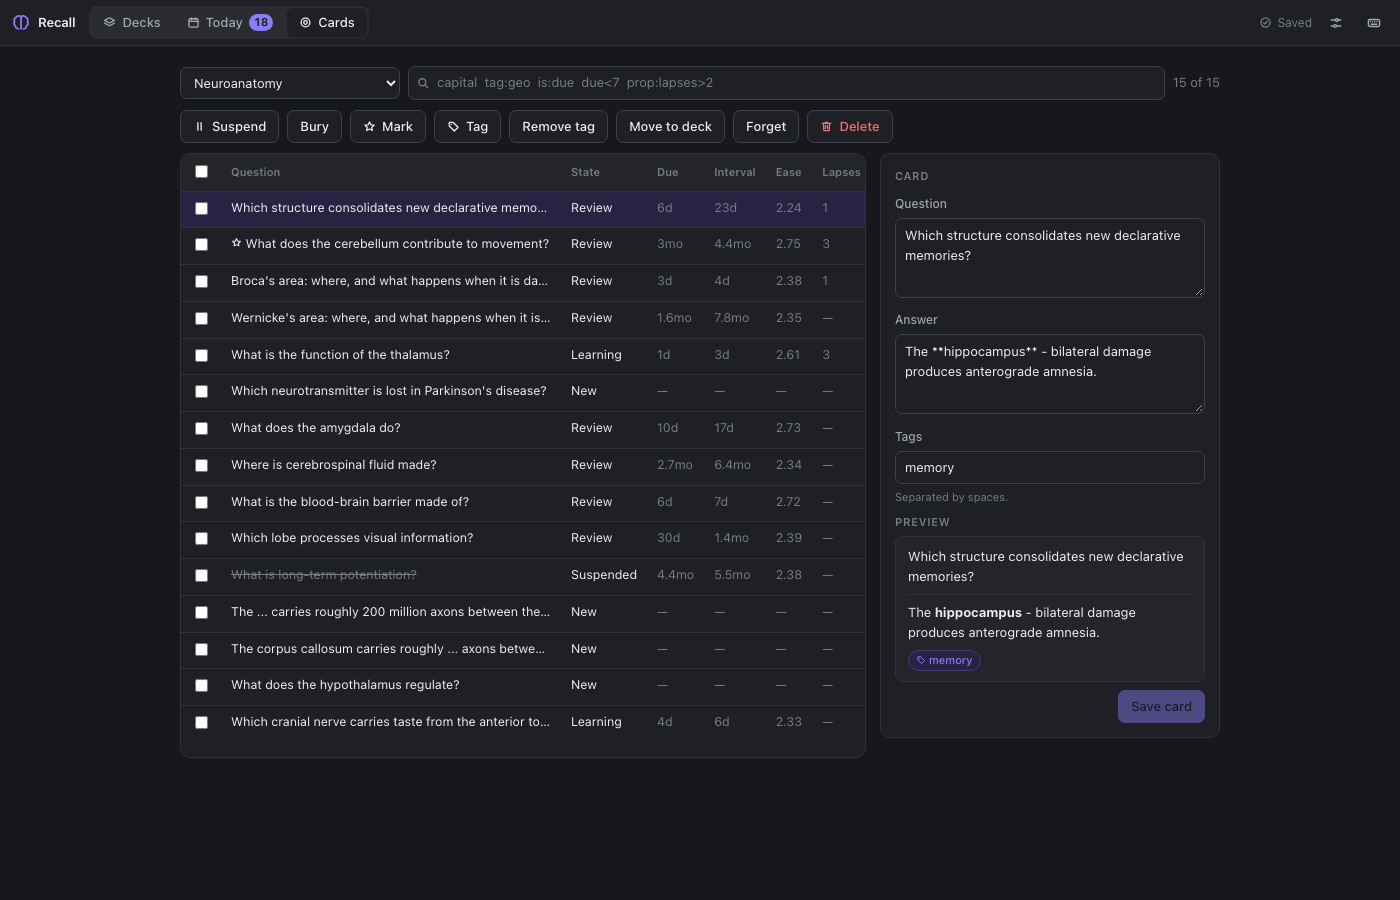
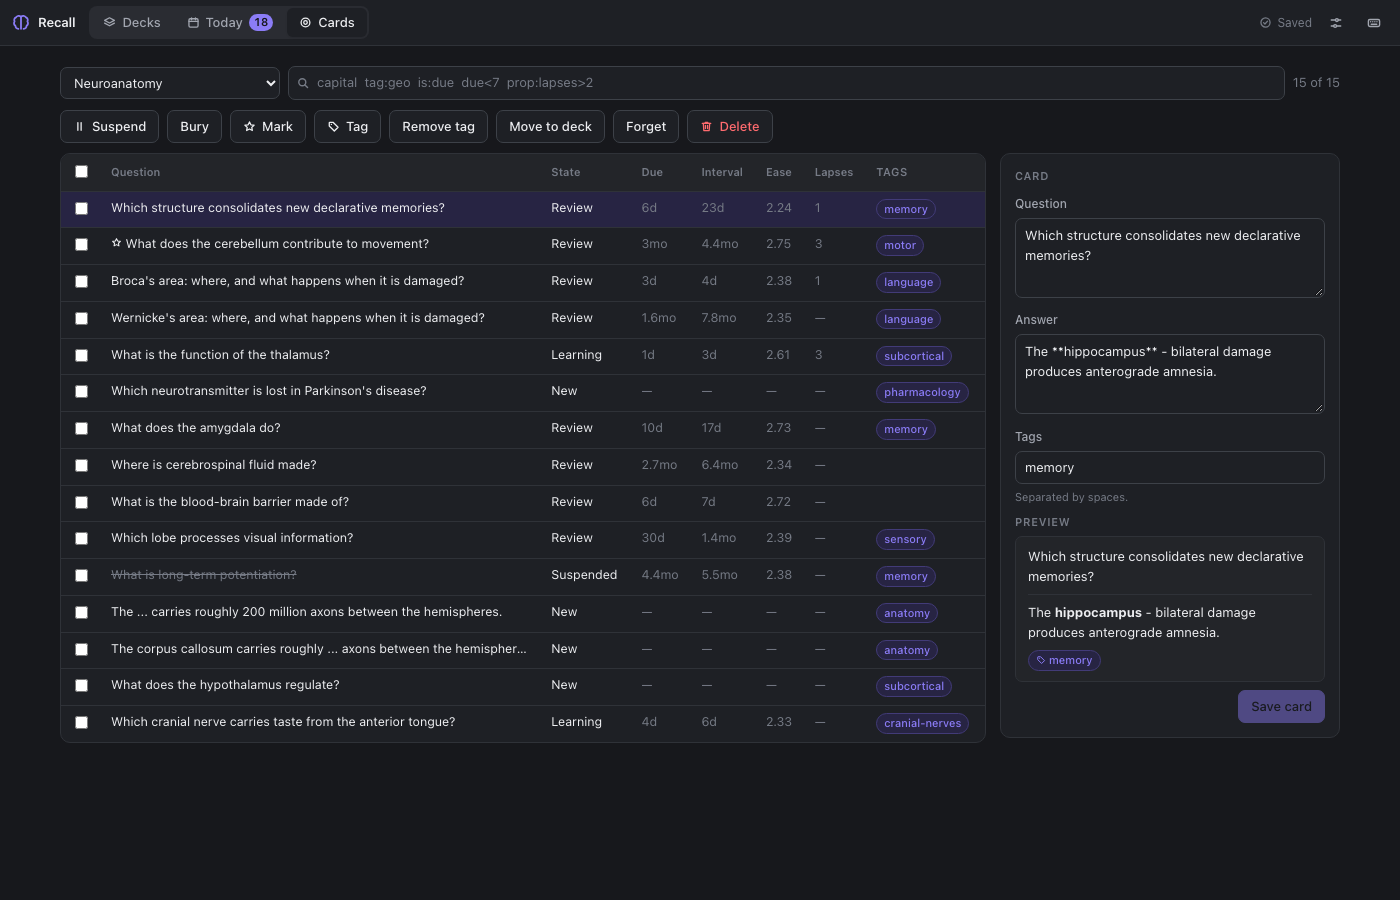
Recall: polish from looking at the screenshots
The card browser gets the width it needs, so the tags column is no
longer clipped off the right-hand edge. A cloze gap reads as [ ... ]
rather than an empty box. app.json declares its two intents so they
carry a description in the OS's intent registry. Unused imports gone.

Claude-Session: https://claude.ai/code/session_01NNGGAqpqChD6RAvBezTU2B

diff --git a/tools/recall/app/files/build/app.js b/tools/recall/app/files/build/app.js
@@ -1492,7 +1492,7 @@ function BrowseView(props) {
         return ((0, jsx_runtime_1.jsx)(bits_1.Empty, { icon: (0, jsx_runtime_1.jsx)(Icons_1.LayersIcon, { size: 40, strokeWidth: 1.2 }), title: "No decks to browse", children: (0, jsx_runtime_1.jsx)("p", { children: "Make a deck first and its cards will show up here." }) }));
     }
     if (!record) {
-        return ((0, jsx_runtime_1.jsx)("div", { className: "recall-page", children: (0, jsx_runtime_1.jsx)(DeckPicker, { decks: order, value: props.deck, onChange: props.onPickDeck }) }));
+        return ((0, jsx_runtime_1.jsx)("div", { className: "recall-page recall-page-wide", children: (0, jsx_runtime_1.jsx)(DeckPicker, { decks: order, value: props.deck, onChange: props.onPickDeck }) }));
     }
     const cursorSubject = rows.find((row) => row.card.id === cursor) ?? rows[0];
     const selected = new Set(selection);
@@ -1518,7 +1518,7 @@ function BrowseView(props) {
     };
     const ids = selection.length ? selection : cursorSubject ? [cursorSubject.card.id] : [];
     const anySuspended = ids.some((id) => record.sidecar.cards[id]?.suspended);
-    return ((0, jsx_runtime_1.jsxs)("div", { className: "recall-page", children: [(0, jsx_runtime_1.jsxs)("div", { className: "recall-toolbar", ref: searchRef, children: [(0, jsx_runtime_1.jsx)(DeckPicker, { decks: order, value: props.deck, onChange: props.onPickDeck }), (0, jsx_runtime_1.jsxs)("div", { className: "recall-search", children: [(0, jsx_runtime_1.jsx)(Icons_1.SearchIcon, { size: 14 }), (0, jsx_runtime_1.jsx)(bits_1.TextInput, { value: query, onChange: setQuery, label: "Search cards", placeholder: "capital  tag:geo  is:due  due<7  prop:lapses>2" })] }), (0, jsx_runtime_1.jsxs)("span", { className: "recall-muted recall-nowrap", children: [rows.length, " of ", subjects.length, selection.length ? ` · ${selection.length} selected` : ''] })] }), ids.length ? ((0, jsx_runtime_1.jsxs)("div", { className: "recall-toolbar", role: "group", "aria-label": "Actions for the selected cards", children: [(0, jsx_runtime_1.jsxs)(bits_1.Button, { onClick: () => act(() => setCardFlag(record.name, ids, 'suspended', !anySuspended), anySuspended ? 'Unsuspended' : 'Suspended'), children: [anySuspended ? (0, jsx_runtime_1.jsx)(Icons_1.PlayIcon, { size: 13 }) : (0, jsx_runtime_1.jsx)(Icons_1.PauseIcon, { size: 13 }), " ", anySuspended ? 'Unsuspend' : 'Suspend'] }), (0, jsx_runtime_1.jsx)(bits_1.Button, { onClick: () => act(() => buryCards(record.name, ids), 'Buried until tomorrow'), children: "Bury" }), (0, jsx_runtime_1.jsxs)(bits_1.Button, { onClick: () => act(() => setCardFlag(record.name, ids, 'marked', true), 'Marked'), children: [(0, jsx_runtime_1.jsx)(Icons_1.StarIcon, { size: 13 }), " Mark"] }), (0, jsx_runtime_1.jsxs)(bits_1.Button, { onClick: () => setDialog('tag'), children: [(0, jsx_runtime_1.jsx)(Icons_1.TagIcon, { size: 13 }), " Tag"] }), (0, jsx_runtime_1.jsx)(bits_1.Button, { onClick: () => setDialog('untag'), children: "Remove tag" }), (0, jsx_runtime_1.jsx)(bits_1.Button, { onClick: () => setDialog('move'), disabled: order.length < 2, children: "Move to deck" }), (0, jsx_runtime_1.jsx)(bits_1.Button, { onClick: () => act(() => resetCards(record.name, ids), 'Scheduling reset - these cards are new again'), children: "Forget" }), (0, jsx_runtime_1.jsxs)(bits_1.Button, { variant: "danger", onClick: () => setDialog('delete'), children: [(0, jsx_runtime_1.jsx)(Icons_1.TrashIcon, { size: 13 }), " Delete"] })] })) : null, (0, jsx_runtime_1.jsxs)("div", { className: "recall-browse", children: [(0, jsx_runtime_1.jsx)("div", { className: "recall-table-wrap", children: (0, jsx_runtime_1.jsx)("div", { className: "recall-scroll", children: (0, jsx_runtime_1.jsxs)("table", { className: "recall-table", children: [(0, jsx_runtime_1.jsx)("thead", { children: (0, jsx_runtime_1.jsxs)("tr", { children: [(0, jsx_runtime_1.jsx)("th", { style: { width: 28 }, children: (0, jsx_runtime_1.jsx)("input", { type: "checkbox", checked: allSelected, "aria-label": "Select every card shown", onChange: () => setSelection(allSelected ? [] : rows.map((row) => row.card.id)) }) }), (0, jsx_runtime_1.jsx)(SortHeader, { label: "Question", column: "front", sort: sort, onSort: setSort }), (0, jsx_runtime_1.jsx)(SortHeader, { label: "State", column: "state", sort: sort, onSort: setSort }), (0, jsx_runtime_1.jsx)(SortHeader, { label: "Due", column: "due", sort: sort, onSort: setSort }), (0, jsx_runtime_1.jsx)(SortHeader, { label: "Interval", column: "interval", sort: sort, onSort: setSort }), (0, jsx_runtime_1.jsx)(SortHeader, { label: "Ease", column: "ease", sort: sort, onSort: setSort }), (0, jsx_runtime_1.jsx)(SortHeader, { label: "Lapses", column: "lapses", sort: sort, onSort: setSort }), (0, jsx_runtime_1.jsx)("th", { children: "Tags" })] }) }), (0, jsx_runtime_1.jsxs)("tbody", { children: [rows.map((row) => {
+    return ((0, jsx_runtime_1.jsxs)("div", { className: "recall-page recall-page-wide", children: [(0, jsx_runtime_1.jsxs)("div", { className: "recall-toolbar", ref: searchRef, children: [(0, jsx_runtime_1.jsx)(DeckPicker, { decks: order, value: props.deck, onChange: props.onPickDeck }), (0, jsx_runtime_1.jsxs)("div", { className: "recall-search", children: [(0, jsx_runtime_1.jsx)(Icons_1.SearchIcon, { size: 14 }), (0, jsx_runtime_1.jsx)(bits_1.TextInput, { value: query, onChange: setQuery, label: "Search cards", placeholder: "capital  tag:geo  is:due  due<7  prop:lapses>2" })] }), (0, jsx_runtime_1.jsxs)("span", { className: "recall-muted recall-nowrap", children: [rows.length, " of ", subjects.length, selection.length ? ` · ${selection.length} selected` : ''] })] }), ids.length ? ((0, jsx_runtime_1.jsxs)("div", { className: "recall-toolbar", role: "group", "aria-label": "Actions for the selected cards", children: [(0, jsx_runtime_1.jsxs)(bits_1.Button, { onClick: () => act(() => setCardFlag(record.name, ids, 'suspended', !anySuspended), anySuspended ? 'Unsuspended' : 'Suspended'), children: [anySuspended ? (0, jsx_runtime_1.jsx)(Icons_1.PlayIcon, { size: 13 }) : (0, jsx_runtime_1.jsx)(Icons_1.PauseIcon, { size: 13 }), " ", anySuspended ? 'Unsuspend' : 'Suspend'] }), (0, jsx_runtime_1.jsx)(bits_1.Button, { onClick: () => act(() => buryCards(record.name, ids), 'Buried until tomorrow'), children: "Bury" }), (0, jsx_runtime_1.jsxs)(bits_1.Button, { onClick: () => act(() => setCardFlag(record.name, ids, 'marked', true), 'Marked'), children: [(0, jsx_runtime_1.jsx)(Icons_1.StarIcon, { size: 13 }), " Mark"] }), (0, jsx_runtime_1.jsxs)(bits_1.Button, { onClick: () => setDialog('tag'), children: [(0, jsx_runtime_1.jsx)(Icons_1.TagIcon, { size: 13 }), " Tag"] }), (0, jsx_runtime_1.jsx)(bits_1.Button, { onClick: () => setDialog('untag'), children: "Remove tag" }), (0, jsx_runtime_1.jsx)(bits_1.Button, { onClick: () => setDialog('move'), disabled: order.length < 2, children: "Move to deck" }), (0, jsx_runtime_1.jsx)(bits_1.Button, { onClick: () => act(() => resetCards(record.name, ids), 'Scheduling reset - these cards are new again'), children: "Forget" }), (0, jsx_runtime_1.jsxs)(bits_1.Button, { variant: "danger", onClick: () => setDialog('delete'), children: [(0, jsx_runtime_1.jsx)(Icons_1.TrashIcon, { size: 13 }), " Delete"] })] })) : null, (0, jsx_runtime_1.jsxs)("div", { className: "recall-browse", children: [(0, jsx_runtime_1.jsx)("div", { className: "recall-table-wrap", children: (0, jsx_runtime_1.jsx)("div", { className: "recall-scroll", children: (0, jsx_runtime_1.jsxs)("table", { className: "recall-table", children: [(0, jsx_runtime_1.jsx)("thead", { children: (0, jsx_runtime_1.jsxs)("tr", { children: [(0, jsx_runtime_1.jsx)("th", { style: { width: 28 }, children: (0, jsx_runtime_1.jsx)("input", { type: "checkbox", checked: allSelected, "aria-label": "Select every card shown", onChange: () => setSelection(allSelected ? [] : rows.map((row) => row.card.id)) }) }), (0, jsx_runtime_1.jsx)(SortHeader, { label: "Question", column: "front", sort: sort, onSort: setSort }), (0, jsx_runtime_1.jsx)(SortHeader, { label: "State", column: "state", sort: sort, onSort: setSort }), (0, jsx_runtime_1.jsx)(SortHeader, { label: "Due", column: "due", sort: sort, onSort: setSort }), (0, jsx_runtime_1.jsx)(SortHeader, { label: "Interval", column: "interval", sort: sort, onSort: setSort }), (0, jsx_runtime_1.jsx)(SortHeader, { label: "Ease", column: "ease", sort: sort, onSort: setSort }), (0, jsx_runtime_1.jsx)(SortHeader, { label: "Lapses", column: "lapses", sort: sort, onSort: setSort }), (0, jsx_runtime_1.jsx)("th", { children: "Tags" })] }) }), (0, jsx_runtime_1.jsxs)("tbody", { children: [rows.map((row) => {
                                                 const state = row.state;
                                                 const days = Math.ceil((state.due - Date.now()) / 86400000);
                                                 return ((0, jsx_runtime_1.jsxs)("tr", { className: "recall-row", "data-selected": selected.has(row.card.id) || cursorSubject?.card.id === row.card.id, "data-suspended": state.suspended === true, onClick: (event) => {
@@ -4454,8 +4454,10 @@ function inlineNodes(text, blanks) {
                 return (0, jsx_runtime_1.jsx)("em", { children: token.text }, index);
             case 'code':
                 return (0, jsx_runtime_1.jsx)("code", { children: token.text }, index);
+            // A gap reads as a gap: the hint the author wrote, or Anki's
+            // own [...] when there is none - an empty box is too easy to miss.
             case 'blank':
-                return ((0, jsx_runtime_1.jsx)("span", { className: "recall-blank", children: token.text === '...' ? '    ' : token.text }, index));
+                return ((0, jsx_runtime_1.jsx)("span", { className: "recall-blank", children: token.text === '...' ? '[ ... ]' : token.text }, index));
             case 'link':
                 return /^https?:\/\//i.test(token.href) ? ((0, jsx_runtime_1.jsx)("a", { href: token.href, target: "_blank", rel: "noreferrer noopener", children: token.text }, index)) : ((0, jsx_runtime_1.jsx)("span", { className: "recall-image-link", title: token.href, children: token.text }, index));
             case 'image':

diff --git a/tools/recall/app/src/ui/BrowseView.tsx b/tools/recall/app/src/ui/BrowseView.tsx
@@ -13,7 +13,7 @@ import { compareCards, matches, parseQuery } from '../lib/search';
 import type { SearchSubject, SortKey } from '../lib/search';
 import { plainText } from '../lib/md';
 import { formatInterval } from '../lib/time';
-import { Button, Empty, IconButton, Modal, Select, TextInput } from './bits';
+import { Button, Empty, Modal, Select, TextInput } from './bits';
 import { CardEditor } from './CardEditor';
 import { ChevronDown, ChevronUp, LayersIcon, PauseIcon, PlayIcon, SearchIcon, StarIcon, TagIcon, TrashIcon } from './Icons';
 
@@ -77,7 +77,7 @@ export function BrowseView(props: { deck: string | null; onPickDeck: (deck: stri
 
   if (!record) {
     return (
-      <div className="recall-page">
+      <div className="recall-page recall-page-wide">
         <DeckPicker decks={order} value={props.deck} onChange={props.onPickDeck} />
       </div>
     );
@@ -112,7 +112,7 @@ export function BrowseView(props: { deck: string | null; onPickDeck: (deck: stri
   const anySuspended = ids.some((id) => record.sidecar.cards[id]?.suspended);
 
   return (
-    <div className="recall-page">
+    <div className="recall-page recall-page-wide">
       <div className="recall-toolbar" ref={searchRef}>
         <DeckPicker decks={order} value={props.deck} onChange={props.onPickDeck} />
         <div className="recall-search">

diff --git a/tools/recall/app/files/build/app.css b/tools/recall/app/files/build/app.css
@@ -190,6 +190,11 @@
   padding: 20px 20px 48px;
 }
 
+/* The card table wants every pixel the window has. */
+.recall-page-wide {
+  max-width: 1320px;
+}
+
 /* ------------------------------------------------------------ atoms */
 
 .recall-btn {
@@ -625,9 +630,11 @@
 .recall-blank {
   background: var(--accent-soft);
   color: var(--accent);
+  border: 1px solid var(--accent-line);
   border-radius: 4px;
   padding: 0 6px;
   font-weight: 600;
+  white-space: nowrap;
 }
 
 .recall-grades {
@@ -809,6 +816,7 @@
 
 .recall-table td {
   padding: 7px 10px;
+  max-width: 260px;
   border-bottom: 1px solid var(--line);
   vertical-align: top;
 }
@@ -834,8 +842,8 @@
   text-decoration: line-through;
 }
 
-.recall-cell-front {
-  max-width: 340px;
+.recall-table td.recall-cell-front {
+  max-width: 420px;
   overflow: hidden;
   text-overflow: ellipsis;
   white-space: nowrap;

diff --git a/tools/recall/app/src/styles.css b/tools/recall/app/src/styles.css
@@ -190,6 +190,11 @@
   padding: 20px 20px 48px;
 }
 
+/* The card table wants every pixel the window has. */
+.recall-page-wide {
+  max-width: 1320px;
+}
+
 /* ------------------------------------------------------------ atoms */
 
 .recall-btn {
@@ -625,9 +630,11 @@
 .recall-blank {
   background: var(--accent-soft);
   color: var(--accent);
+  border: 1px solid var(--accent-line);
   border-radius: 4px;
   padding: 0 6px;
   font-weight: 600;
+  white-space: nowrap;
 }
 
 .recall-grades {
@@ -809,6 +816,7 @@
 
 .recall-table td {
   padding: 7px 10px;
+  max-width: 260px;
   border-bottom: 1px solid var(--line);
   vertical-align: top;
 }
@@ -834,8 +842,8 @@
   text-decoration: line-through;
 }
 
-.recall-cell-front {
-  max-width: 340px;
+.recall-table td.recall-cell-front {
+  max-width: 420px;
   overflow: hidden;
   text-overflow: ellipsis;
   white-space: nowrap;

diff --git a/tools/recall/app/src/ui/Markdown.tsx b/tools/recall/app/src/ui/Markdown.tsx
@@ -25,10 +25,12 @@ function inlineNodes(text: string, blanks: boolean): ReactNode[] {
         return <em key={index}>{token.text}</em>;
       case 'code':
         return <code key={index}>{token.text}</code>;
+      // A gap reads as a gap: the hint the author wrote, or Anki's
+      // own [...] when there is none - an empty box is too easy to miss.
       case 'blank':
         return (
           <span key={index} className="recall-blank">
-            {token.text === '...' ? '    ' : token.text}
+            {token.text === '...' ? '[ ... ]' : token.text}
           </span>
         );
       case 'link':

diff --git a/tools/recall/app/src/lib/deckfile.ts b/tools/recall/app/src/lib/deckfile.ts
@@ -6,7 +6,7 @@
 // makes "somebody edited the deck in another editor" a tested case
 // rather than a hope.
 
-import type { Card, CardState, DeckSettings, ParsedDeck, ReviewContext, Sidecar } from './types';
+import type { Card, CardState, DeckSettings, ReviewContext, Sidecar } from './types';
 import { newCardState, resolveSettings } from './scheduler';
 import { dayIndexOf } from './time';
 

diff --git a/tools/recall/app/src/index.tsx b/tools/recall/app/src/index.tsx
@@ -35,7 +35,7 @@ import {
   NotesDialog,
   RenameDialog,
 } from './ui/dialogs';
-import { Button, IconButton } from './ui/bits';
+import { IconButton } from './ui/bits';
 import { AlertIcon, BrainIcon, CalendarIcon, KeyboardIcon, LayersIcon, SaveIcon, SlidersIcon, TargetIcon } from './ui/Icons';
 import { emptyDeck, serialiseDeck } from './lib/markdown';
 

diff --git a/tools/recall/app/src/store.ts b/tools/recall/app/src/store.ts
@@ -41,7 +41,6 @@ import {
   deckFileName,
   deckNameFromFile,
   doneToday,
-  emptySidecar,
   parseSidecar,
   reconcileSidecar,
   renameCardState,
